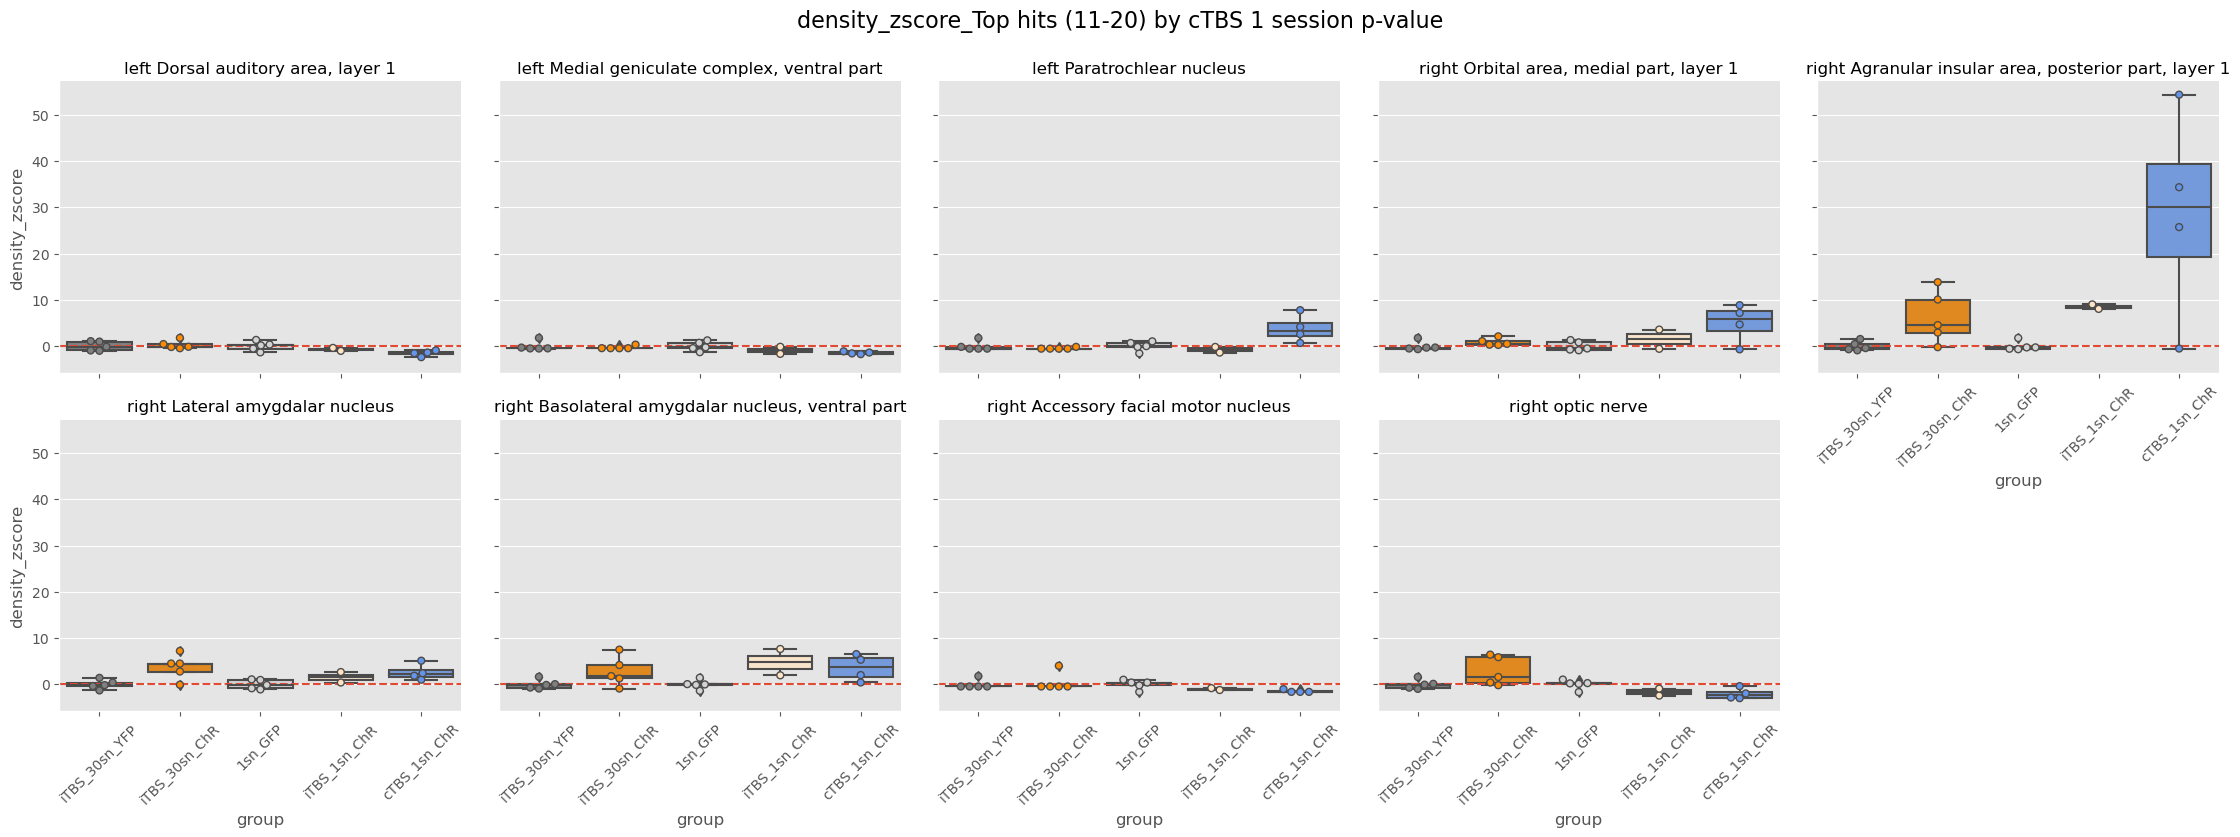
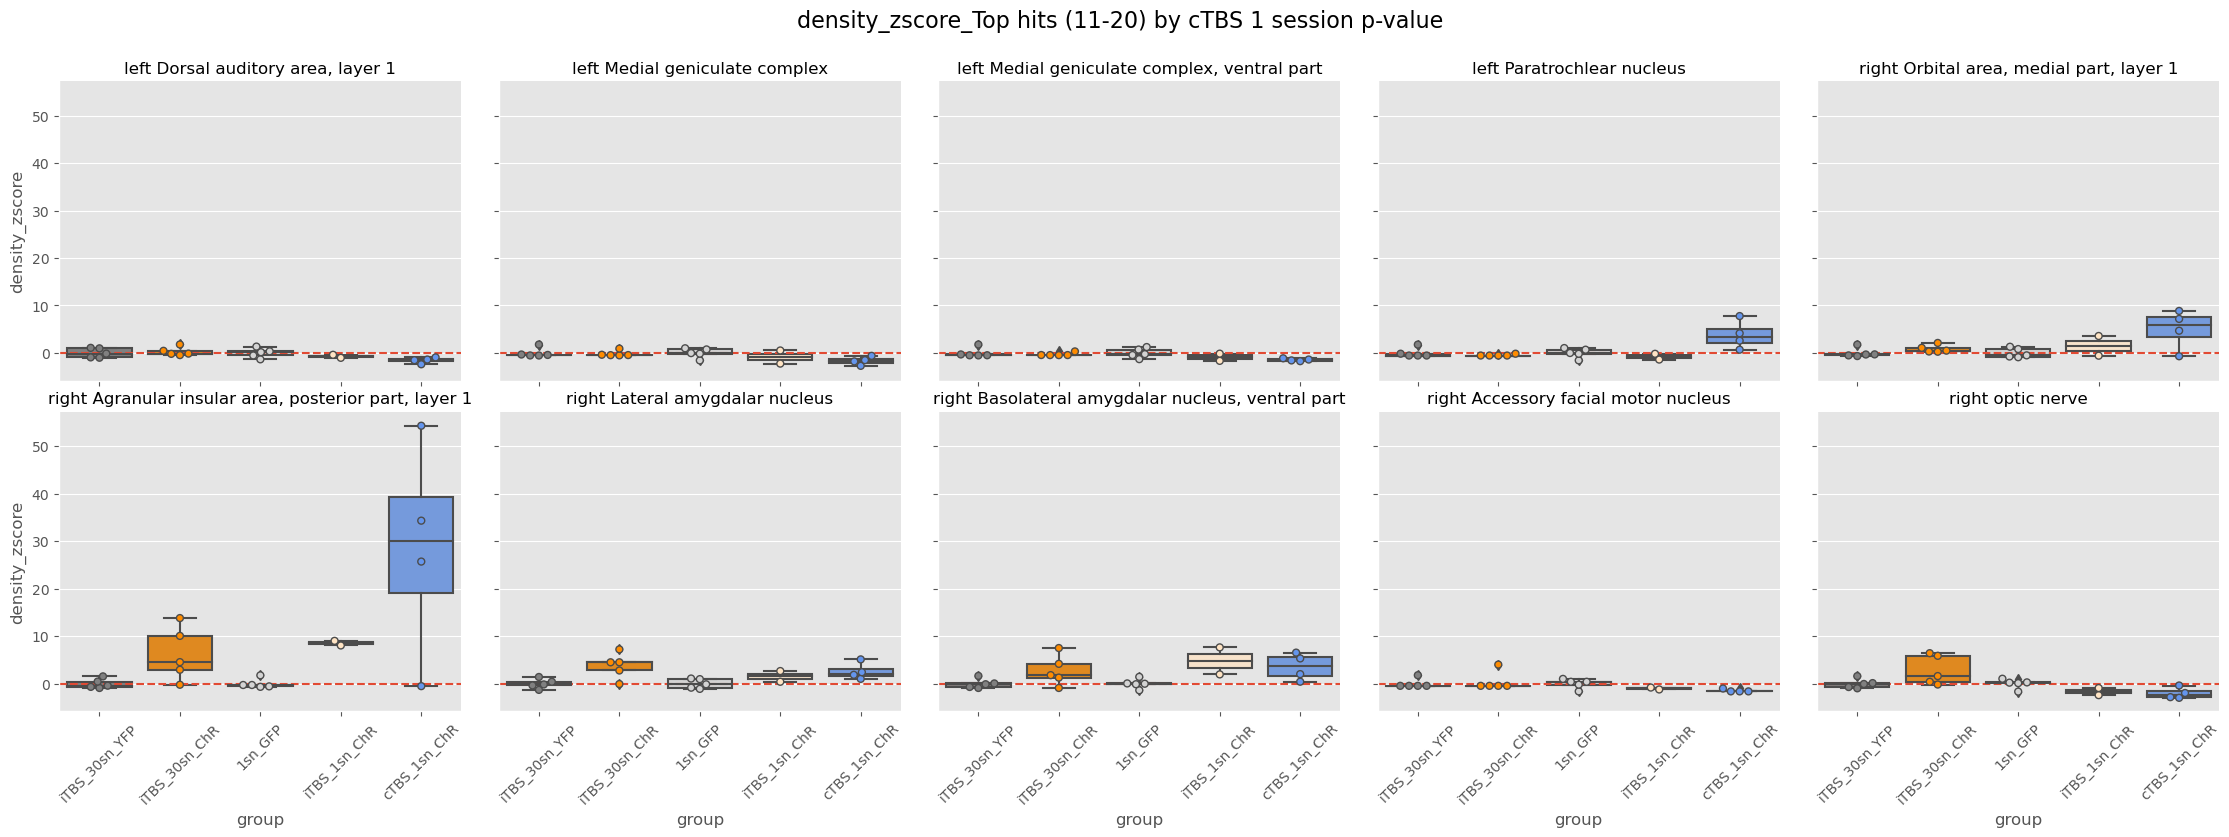
Found an error in the plotting of top hits 11-20. Hopefully fixed

diff --git a/scripts/gather_cfos_data.py b/scripts/gather_cfos_data.py
@@ -303,11 +303,11 @@ def main():
         sort_cTBS_1sn,
         ) = generate_stats_and_venn(t_test_df, alpha=0.05)
     top_01_10_iTBS_30sn = sort_iTBS_30sn.iloc[0:10].index.to_list()
-    top_11_20_iTBS_30sn = sort_iTBS_30sn.iloc[11:20].index.to_list()
+    top_11_20_iTBS_30sn = sort_iTBS_30sn.iloc[11:21].index.to_list()
     top_01_10_iTBS_1sn = sort_iTBS_1sn.iloc[0:10].index.to_list()
-    top_11_20_iTBS_1sn = sort_iTBS_1sn.iloc[11:20].index.to_list()
+    top_11_20_iTBS_1sn = sort_iTBS_1sn.iloc[11:21].index.to_list()
     top_01_10_cTBS_1sn = sort_cTBS_1sn.iloc[0:10].index.to_list()
-    top_11_20_cTBS_1sn = sort_cTBS_1sn.iloc[11:20].index.to_list()
+    top_11_20_cTBS_1sn = sort_cTBS_1sn.iloc[11:21].index.to_list()
     cfos_vrt_collapse = cfos_vrt_collapse.rename(columns={"density (cells/mm^3)":"density_cells_per_mm3"})
     boxplot_multi(
         cfos_vrt_collapse,
